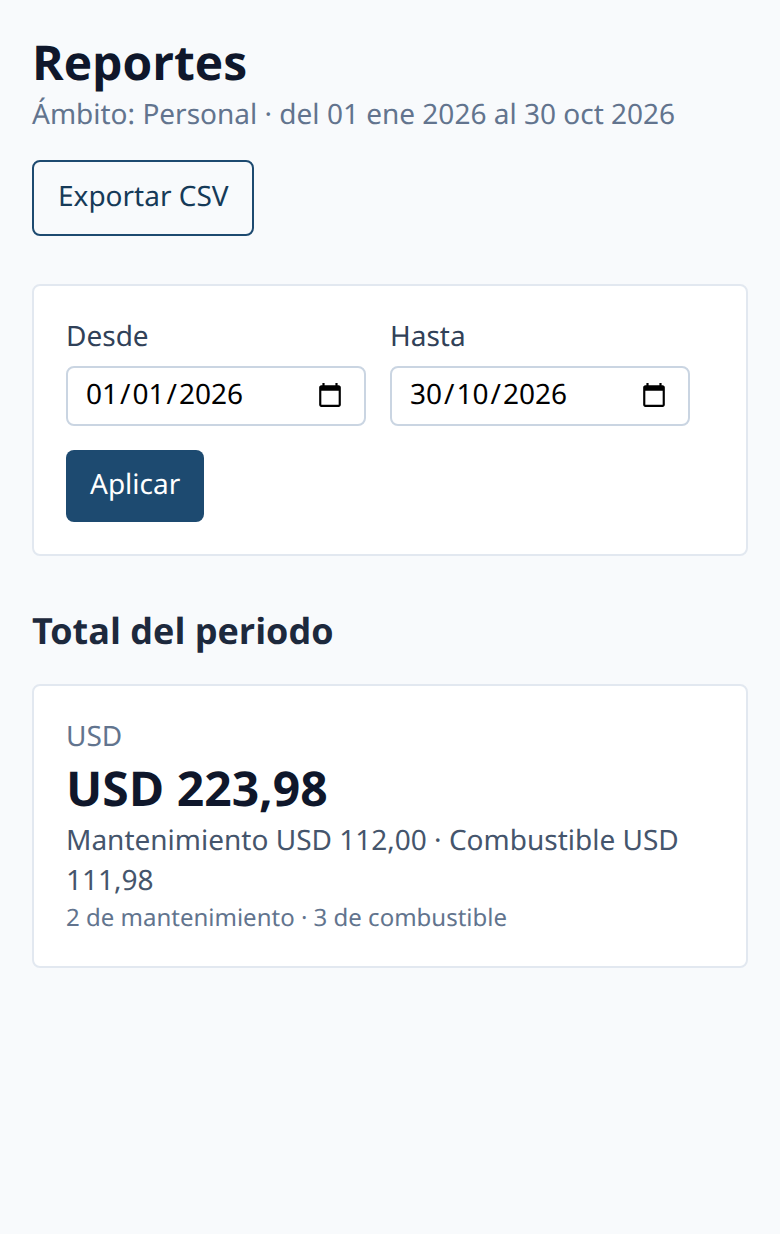
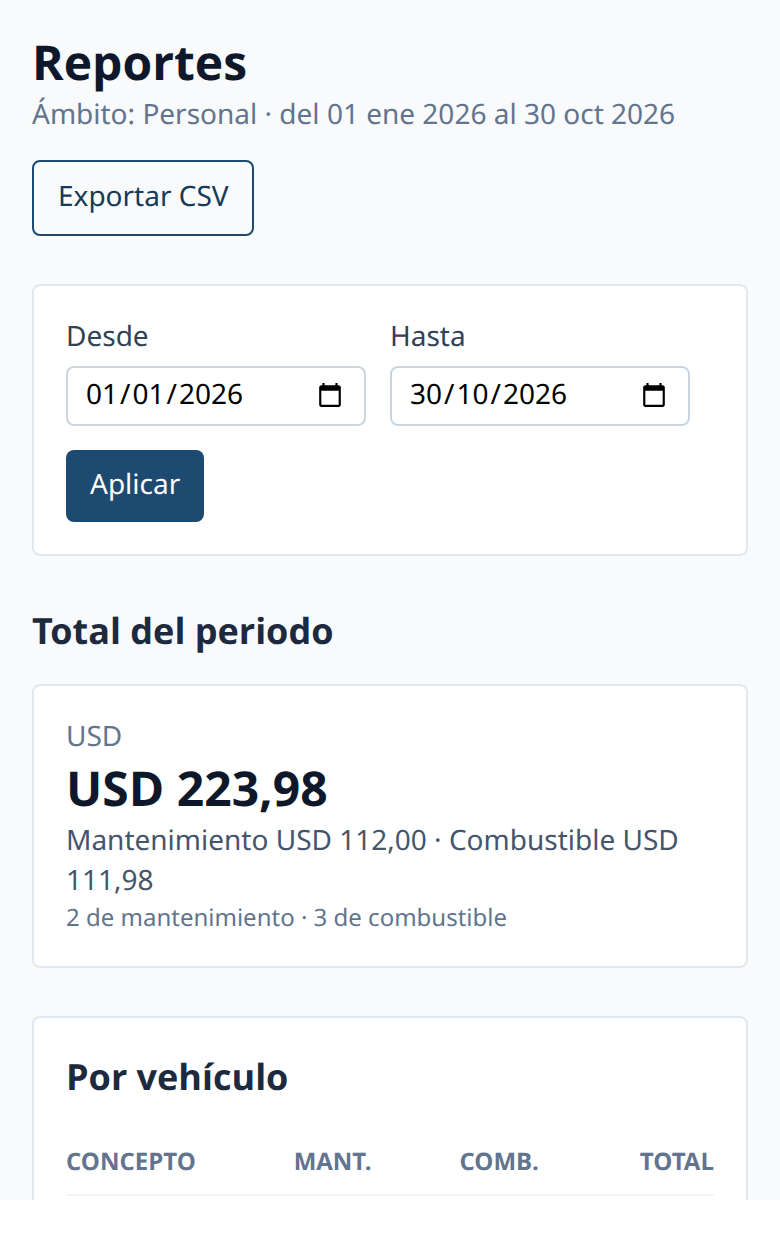
fix(app): accesibilidad y desbordes pendientes
Hallazgos que ya venían de antes, destapados al auditar la app:

- ficha del vehículo: nombre accesible para el input de foto y el selector
  de traspaso;
- Facturación: el estado vacío deja de ser un <p> dentro de <ul>;
- Notificaciones: el punto de "sin leer" pasa a decorativo con texto
  para lectores de pantalla (aria-label estaba prohibido en un <span>);
- fechas y anotaciones en slate-400 (2,6:1) suben a slate-500.

Y dos desbordes reales en pantallas estrechas:

- la cabecera no cabía en 390 px y estiraba el documento a 860: en móvil
  la nav baja a su propia fila y se desplaza en horizontal, con <nav> y
  aria-label;
- la tabla de Reportes se cortaba por ese mismo desborde: además lleva
  encabezados cortos en móvil (Mant./Comb.), importes sin salto de línea
  y una región con foco de teclado para el desplazamiento.

Captura de Reportes de la landing regenerada con la tabla ya legible.

diff --git a/src/components/AppShell.tsx b/src/components/AppShell.tsx
@@ -21,66 +21,72 @@ export default function AppShell() {
 
   return (
     <div className="min-h-svh bg-slate-50">
-      <header className="flex items-center justify-between border-b border-slate-200 bg-white px-4 py-3">
-        <div className="flex items-center gap-4">
-          <Link to="/" className="font-semibold text-brand-700">
-            CarCheck
-          </Link>
-          <NavLink
-            to="/organizaciones"
-            className={({ isActive }) =>
-              `text-sm ${isActive ? 'font-medium text-brand-700' : 'text-slate-600'}`
-            }
-          >
-            Organizaciones
-          </NavLink>
-          <NavLink
-            to="/vehiculos"
-            className={({ isActive }) =>
-              `text-sm ${isActive ? 'font-medium text-brand-700' : 'text-slate-600'}`
-            }
-          >
-            Vehículos
-          </NavLink>
-          <NavLink
-            to="/facturacion"
-            className={({ isActive }) =>
-              `text-sm ${isActive ? 'font-medium text-brand-700' : 'text-slate-600'}`
-            }
-          >
-            Facturación
-          </NavLink>
-          <NavLink
-            to="/recordatorios"
-            className={({ isActive }) =>
-              `text-sm ${isActive ? 'font-medium text-brand-700' : 'text-slate-600'}`
-            }
-          >
-            Recordatorios
-          </NavLink>
-          <NavLink
-            to="/reportes"
-            className={({ isActive }) =>
-              `text-sm ${isActive ? 'font-medium text-brand-700' : 'text-slate-600'}`
-            }
-          >
-            Reportes
-          </NavLink>
-          <NavLink
-            to="/notificaciones"
-            className={({ isActive }) =>
-              `flex items-center gap-1 text-sm ${isActive ? 'font-medium text-brand-700' : 'text-slate-600'}`
-            }
-          >
-            Notificaciones
-            {unreadCount > 0 && (
-              <span className="rounded-full bg-brand-700 px-1.5 py-0.5 text-xs font-medium text-white">
-                {unreadCount}
-              </span>
-            )}
-          </NavLink>
-        </div>
-        <div className="flex items-center gap-3 text-sm">
+      <header className="flex flex-wrap items-center justify-between gap-x-4 gap-y-2 border-b border-slate-200 bg-white px-4 py-3">
+        <Link to="/" className="order-1 font-semibold text-brand-700">
+          CarCheck
+        </Link>
+        {/* En móvil la nav baja a su propia fila y se desplaza en horizontal. */}
+        <nav
+          aria-label="Principal"
+          className="order-3 -mx-4 w-full overflow-x-auto px-4 sm:order-2 sm:mx-0 sm:w-auto sm:overflow-visible sm:px-0"
+        >
+          <div className="flex min-w-max items-center gap-4">
+            <NavLink
+              to="/organizaciones"
+              className={({ isActive }) =>
+                `text-sm ${isActive ? 'font-medium text-brand-700' : 'text-slate-600'}`
+              }
+            >
+              Organizaciones
+            </NavLink>
+            <NavLink
+              to="/vehiculos"
+              className={({ isActive }) =>
+                `text-sm ${isActive ? 'font-medium text-brand-700' : 'text-slate-600'}`
+              }
+            >
+              Vehículos
+            </NavLink>
+            <NavLink
+              to="/facturacion"
+              className={({ isActive }) =>
+                `text-sm ${isActive ? 'font-medium text-brand-700' : 'text-slate-600'}`
+              }
+            >
+              Facturación
+            </NavLink>
+            <NavLink
+              to="/recordatorios"
+              className={({ isActive }) =>
+                `text-sm ${isActive ? 'font-medium text-brand-700' : 'text-slate-600'}`
+              }
+            >
+              Recordatorios
+            </NavLink>
+            <NavLink
+              to="/reportes"
+              className={({ isActive }) =>
+                `text-sm ${isActive ? 'font-medium text-brand-700' : 'text-slate-600'}`
+              }
+            >
+              Reportes
+            </NavLink>
+            <NavLink
+              to="/notificaciones"
+              className={({ isActive }) =>
+                `flex items-center gap-1 text-sm ${isActive ? 'font-medium text-brand-700' : 'text-slate-600'}`
+              }
+            >
+              Notificaciones
+              {unreadCount > 0 && (
+                <span className="rounded-full bg-brand-700 px-1.5 py-0.5 text-xs font-medium text-white">
+                  {unreadCount}
+                </span>
+              )}
+            </NavLink>
+          </div>
+        </nav>
+        <div className="order-2 flex items-center gap-3 text-sm sm:order-3">
           <span className="rounded bg-slate-100 px-2 py-0.5 text-xs text-slate-600">
             {active ? active.name : 'Personal'}
           </span>

diff --git a/src/pages/Reports.tsx b/src/pages/Reports.tsx
@@ -53,35 +53,51 @@ function ExpenseTable<T extends ExpenseRow>({
   rows,
   describe,
   empty,
+  label,
 }: {
   rows: T[]
   describe: (row: T) => string
   empty: string
+  label: string
 }) {
   if (rows.length === 0) {
     return <p className="text-sm text-slate-500">{empty}</p>
   }
 
   return (
-    <div className="overflow-x-auto">
+    // La tabla se desplaza en horizontal en pantallas estrechas: necesita foco de teclado.
+    <div
+      role="region"
+      aria-label={label}
+      tabIndex={0}
+      className="overflow-x-auto rounded focus-visible:outline focus-visible:outline-2 focus-visible:outline-offset-2 focus-visible:outline-brand-700"
+    >
       <table className="w-full text-left text-sm">
         <thead className="text-xs uppercase text-slate-500">
           <tr>
-            <th className="py-2">Concepto</th>
-            <th className="py-2 text-right">Mantenimiento</th>
-            <th className="py-2 text-right">Combustible</th>
-            <th className="py-2 text-right">Total</th>
+            <th scope="col" className="py-2">Concepto</th>
+            <th scope="col" className="py-2 text-right">
+              <span className="sm:hidden">Mant.</span>
+              <span className="hidden sm:inline">Mantenimiento</span>
+            </th>
+            <th scope="col" className="py-2 text-right">
+              <span className="sm:hidden">Comb.</span>
+              <span className="hidden sm:inline">Combustible</span>
+            </th>
+            <th scope="col" className="py-2 text-right">Total</th>
           </tr>
         </thead>
         <tbody>
           {rows.map((row, index) => (
             <tr key={`${describe(row)}-${row.currency}-${index}`} className="border-t border-slate-100">
-              <td className="py-2 text-slate-800">{describe(row)}</td>
-              <td className="py-2 text-right text-slate-700">
+              <td className="py-2 pr-3 text-slate-800">{describe(row)}</td>
+              <td className="whitespace-nowrap py-2 pl-2 text-right text-slate-700">
                 {money(row.maintenance, row.currency)}
               </td>
-              <td className="py-2 text-right text-slate-700">{money(row.fuel, row.currency)}</td>
-              <td className="py-2 text-right font-medium text-slate-900">
+              <td className="whitespace-nowrap py-2 pl-2 text-right text-slate-700">
+                {money(row.fuel, row.currency)}
+              </td>
+              <td className="whitespace-nowrap py-2 pl-3 text-right font-medium text-slate-900">
                 {money(row.total, row.currency)}
               </td>
             </tr>
@@ -233,9 +249,10 @@ export default function Reports() {
             <ExpenseTable<VehicleExpenseRow>
               rows={report?.vehicles ?? []}
               describe={(row) =>
-                `${row.vehicle.make} ${row.vehicle.model}${row.vehicle.plate ? ` · ${row.vehicle.plate}` : ''} (${row.currency})`
+                `${row.vehicle.make} ${row.vehicle.model}${row.vehicle.plate ? ` · ${row.vehicle.plate}` : ''}`
               }
               empty="Sin gastos por vehículo en el periodo."
+              label="Gastos por vehículo"
             />
           </section>
 
@@ -243,8 +260,9 @@ export default function Reports() {
             <h2 className="text-lg font-semibold text-slate-800">Por mes</h2>
             <ExpenseTable<MonthlyExpenseRow>
               rows={report?.monthly ?? []}
-              describe={(row) => `${formatMonth(row.month)} (${row.currency})`}
+              describe={(row) => formatMonth(row.month)}
               empty="Sin gastos por mes en el periodo."
+              label="Gastos por mes"
             />
           </section>
         </>

diff --git a/src/pages/Notifications.tsx b/src/pages/Notifications.tsx
@@ -274,15 +274,18 @@ export default function Notifications() {
                 <div>
                   <p className="flex items-center gap-2 font-medium text-slate-800">
                     {notification.read_at === null && (
-                      <span
-                        aria-label="Sin leer"
-                        className="inline-block h-2 w-2 rounded-full bg-brand-600"
-                      />
+                      <>
+                        <span
+                          aria-hidden="true"
+                          className="inline-block h-2 w-2 rounded-full bg-brand-600"
+                        />
+                        <span className="sr-only">Sin leer</span>
+                      </>
                     )}
                     {notification.title}
                   </p>
                   <p className="text-sm text-slate-600">{notification.body}</p>
-                  <p className="mt-1 text-xs text-slate-400">
+                  <p className="mt-1 text-xs text-slate-500">
                     {formatDate(notification.created_at)}
                   </p>
                 </div>

diff --git a/src/pages/VehicleDetail.tsx b/src/pages/VehicleDetail.tsx
@@ -190,6 +190,7 @@ export default function VehicleDetail() {
           <div className="flex items-center gap-3">
             <input
               type="file"
+              aria-label="Foto del vehículo"
               accept="image/jpeg,image/png,image/webp"
               onChange={(event) => void handlePhoto(event)}
               disabled={busy}
@@ -240,6 +241,7 @@ export default function VehicleDetail() {
           <h2 className="text-lg font-semibold text-slate-800">Traspasar</h2>
           <div className="flex items-center gap-2">
             <select
+              aria-label="Organización de destino"
               value={transferTarget}
               onChange={(event) => setTransferTarget(event.target.value)}
               className="rounded border border-slate-300 px-2 py-2 text-sm"

diff --git a/src/pages/Billing.tsx b/src/pages/Billing.tsx
@@ -218,6 +218,9 @@ export default function Billing() {
 
       <section className="space-y-2">
         <h2 className="text-lg font-semibold text-slate-800">Pagos reportados</h2>
+        {!loading && payments.length === 0 && (
+          <p className="text-sm text-slate-500">Sin pagos reportados.</p>
+        )}
         <ul className="space-y-2">
           {payments.map((payment) => (
             <li
@@ -254,9 +257,6 @@ export default function Billing() {
               </div>
             </li>
           ))}
-          {!loading && payments.length === 0 && (
-            <p className="text-sm text-slate-500">Sin pagos reportados.</p>
-          )}
         </ul>
       </section>
     </div>

diff --git a/src/pages/MaintenanceDetail.tsx b/src/pages/MaintenanceDetail.tsx
@@ -127,7 +127,7 @@ export default function MaintenanceDetail() {
           {record.items.map((item) => (
             <li key={item.id} className="flex items-center justify-between">
               <span className="text-slate-700">
-                {item.description} <span className="text-slate-400">({item.kind})</span>
+                {item.description} <span className="text-slate-500">({item.kind})</span>
               </span>
               <span className="text-slate-600">
                 {item.quantity} × {item.unit_price}

diff --git a/src/pages/OrganizationMembers.tsx b/src/pages/OrganizationMembers.tsx
@@ -112,7 +112,7 @@ export default function OrganizationMembers() {
               <p className="font-medium text-slate-800">
                 {member.name}
                 {member.id === currentUser?.id && (
-                  <span className="ml-2 text-xs text-slate-400">(tú)</span>
+                  <span className="ml-2 text-xs text-slate-500">(tú)</span>
                 )}
               </p>
               <p className="text-sm text-slate-500">{member.email}</p>

diff --git a/src/pages/Organizations.tsx b/src/pages/Organizations.tsx
@@ -103,7 +103,7 @@ export default function Organizations() {
             value={name}
             onChange={(event) => setName(event.target.value)}
             placeholder="Nombre de la organización"
-            className="flex-1 rounded border border-slate-300 px-3 py-2"
+            className="min-w-0 flex-1 rounded border border-slate-300 px-3 py-2"
             required
           />
           <button
